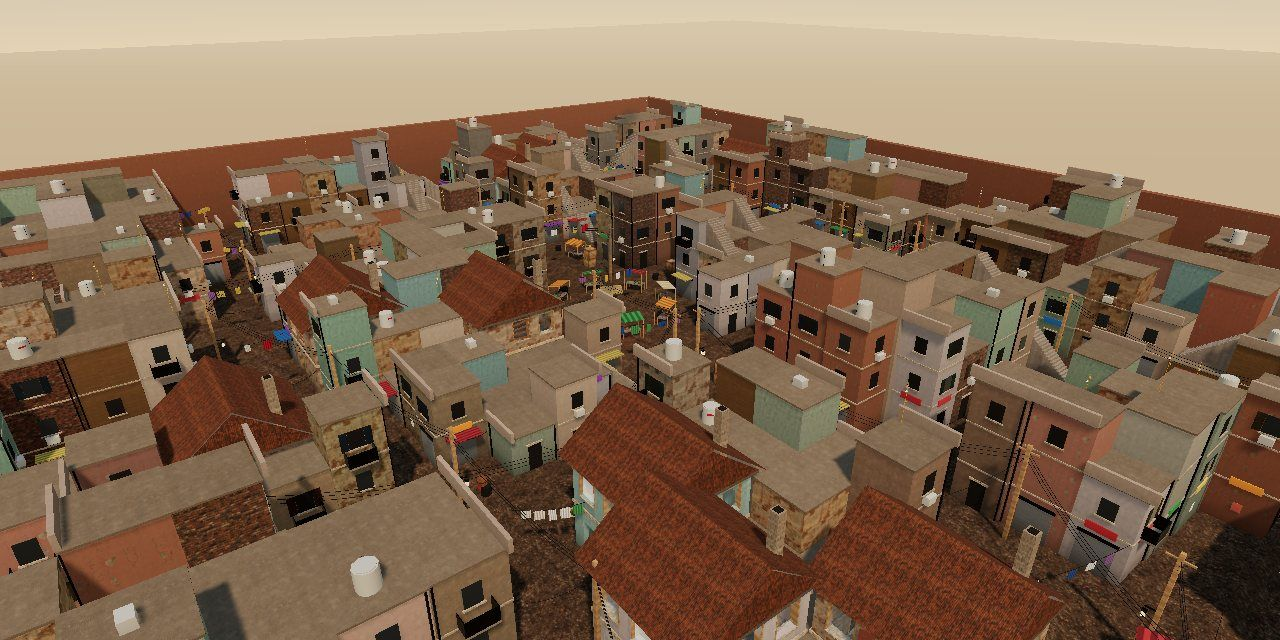
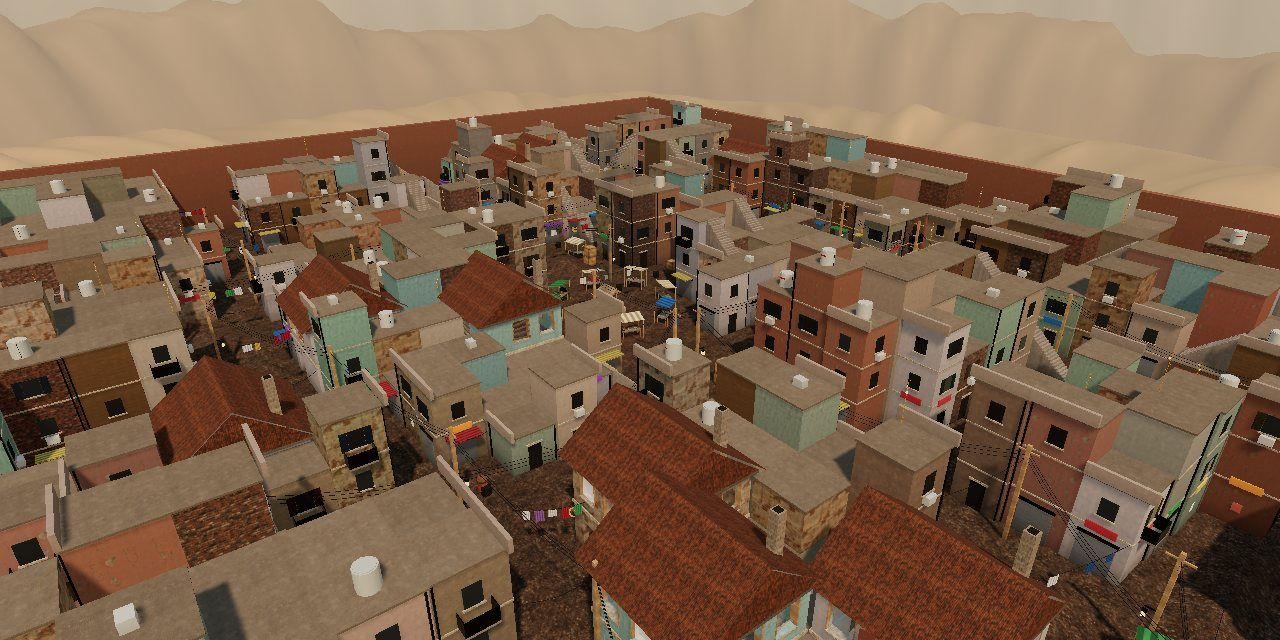
Beautiful layered backdrops, slope-limited hills, fall damage happy medium
- New panoramic backdrops: ground floor + foothills in the map's own colours,
  mid ranges (mesas on desert maps), far peaks with snow on Millbrook, all
  sun-shaded and fading into each map's haze; follows the map's edge
- Terrain slope limiter (~28 deg max) + crease softening; Bazaar gets more
  rise in its open spaces
- Fall damage: 4 m ~12, 7 m ~70, 10 m ~125, rooftop falls (11 m+) lethal
- Map postcards re-shot

Claude-Session: https://claude.ai/code/session_016tiaBKXEoAVGUpszsHYEEG

diff --git a/fps/game.js b/fps/game.js
@@ -1028,6 +1028,7 @@ function buildScenery(L, th, group) {
 const windU = { value: 0 };
 // ground, water, glows, fireflies, clouds
 function buildEnvironment(L, th, group, anim) {
+  buildBackdrop(L, th, group);
   const [x0, z0, x1, z1] = L.bounds;
   // detailed play-area ground with vertex-colour variation + soft darkening near walls
   const W = x1 - x0 + 8, D = z1 - z0 + 8, seg = TERR ? Math.min(220, Math.ceil(Math.max(x1 - x0, z1 - z0) / 0.8)) : L.big ? 128 : 64, gg = new THREE.PlaneGeometry(W, D, seg, seg); gg.rotateX(-Math.PI / 2); gg.translate((x0 + x1) / 2, 0, (z0 + z1) / 2);
@@ -1043,7 +1044,7 @@ function buildEnvironment(L, th, group, anim) {
   if (gm.map) { gm.map.anisotropy = Math.min(4, maxAniso); }
   const ground = new THREE.Mesh(gg, gm); ground.receiveShadow = true; group.add(ground);
   const far = new THREE.Mesh(new THREE.PlaneGeometry(900, 900).rotateX(-Math.PI / 2), MAT({ color: th.farGround || 0x4a5a3a }));
-  far.position.y = -0.05; group.add(far);
+  far.position.y = -0.05; if (!L.backdrop) group.add(far); // the layered backdrop brings its own floor
   // water
   if (L.water.length) {
     const wt = getTex('water').clone(); wt.needsUpdate = true; wt.wrapS = wt.wrapT = THREE.RepeatWrapping;
@@ -1106,9 +1107,44 @@ function updateEnvironment(dt) {
     else p.setXYZ(i, s[0] + Math.sin(t * s[4] + s[3]) * 1.2, s[1] + Math.sin(t * 1.3 * s[4] + s[3] * 2) * 0.4, s[2] + Math.cos(t * 0.8 * s[4] + s[3]) * 1.2); });
     p.needsUpdate = true; A.flies.geo.attributes.position.needsUpdate = true; }
 }
-function mountains(L, colors, snow) {
-  for (let i = 0; i < 26; i++) { const a = i / 26 * 6.28 + rand(-0.1, 0.1), r = rand(190, 260), h = rand(35, 85);
-    L.props.push({ k: 'mountain', x: Math.cos(a) * r, y: -2, z: Math.sin(a) * r, s: 1, ry: 0, r: rand(45, 80), h, c: pick(colors), snow: snow && h > 60 }); }
+function mountains(L, colors, snow) { L.backdrop = L.backdrop || (snow ? 'alpine' : 'desert'); } // replaced by layered ridgelines (buildBackdrop)
+// layered panoramic backdrop: near foothills in the map's own ground colour, mid ranges, far peaks dissolving into the sky haze
+const BACKDROPS = {
+  desert: [{ d0: 0, d1: 340, h: [0, 0], c: [0xb08a5a, 0xbf9a68], hz: 0.1, f: 1, floor: true }, { d0: 0, d1: 100, h: [3, 12], c: [0xb48d5c, 0xcca674], hz: 0.04, f: 7, near: true }, { d0: 80, d1: 200, h: [22, 56], c: [0x9a6c44, 0xb8885a], hz: 0.16, f: 5, mesa: 0.72 }, { d0: 220, d1: 320, h: [55, 110], c: [0x957a68, 0xb59e88], hz: 0.36, f: 4 }],
+  dusty: [{ d0: 0, d1: 340, h: [0, 0], c: [0xa88a64, 0xb89a74], hz: 0.1, f: 1, floor: true }, { d0: 0, d1: 100, h: [3, 11], c: [0xae9068, 0xc4a47e], hz: 0.08, f: 8, near: true }, { d0: 80, d1: 210, h: [18, 46], c: [0x96765a, 0xb09272], hz: 0.26, f: 6, mesa: 0.8 }, { d0: 230, d1: 320, h: [45, 95], c: [0x948472, 0xb0a08e], hz: 0.46, f: 4 }],
+  alpine: [{ d0: 0, d1: 340, h: [0, 0], c: [0x40602c, 0x50703a], hz: 0.1, f: 1, floor: true }, { d0: 0, d1: 110, h: [5, 18], c: [0x3a5a28, 0x587a3a], hz: 0.1, f: 8, near: true, forest: true }, { d0: 90, d1: 210, h: [28, 62], c: [0x46623e, 0x647c58], hz: 0.2, f: 6 }, { d0: 230, d1: 330, h: [80, 150], c: [0x546c8a, 0x7a90ae], hz: 0.3, f: 5, snow: 0.64 }],
+  urban: [{ d0: 0, d1: 340, h: [0, 0], c: [0x5c5e5a, 0x6a6c66], hz: 0.1, f: 1, floor: true }, { d0: 110, d1: 230, h: [16, 40], c: [0x62665c, 0x7a7e72], hz: 0.32, f: 6 }, { d0: 240, d1: 330, h: [40, 85], c: [0x6e7076, 0x8c8e94], hz: 0.5, f: 4 }],
+  coast: [{ d0: 0, d1: 340, h: [0, 0], c: [0x3e4a54, 0x4a5660], hz: 0.1, f: 1, floor: true }, { d0: 190, d1: 290, h: [20, 60], c: [0x56504e, 0x726860], hz: 0.4, f: 5 }, { d0: 270, d1: 335, h: [50, 110], c: [0x66646e, 0x86808a], hz: 0.56, f: 3 }],
+};
+function buildBackdrop(L, th, group) {
+  const preset = typeof L.backdrop === 'string' ? BACKDROPS[L.backdrop] : L.backdrop; if (!preset) return;
+  const [x0, z0, x1, z1] = L.bounds, cx = (x0 + x1) / 2, cz = (z0 + z1) / 2, hw = (x1 - x0) / 2 + 1, hd = (z1 - z0) / 2 + 1, haze = new THREE.Color(th.fog), R0 = seeded(hashStr(L.backdropSeed || String(hw * 7 + hd)));
+  const edge = a => Math.min(hw / Math.max(1e-3, Math.abs(Math.cos(a))), hd / Math.max(1e-3, Math.abs(Math.sin(a)))); // distance to the map's rectangular edge
+  const sun = new V3(...th.sunDir).normalize();
+  preset.forEach((Ly, li) => {
+    const sa = 360, sr = Ly.near ? 12 : 8, ph = [...Array(6)].map(() => R0() * 6.28), am = [1, 0.55, 0.3, 0.18, 0.1, 0.06];
+    const prof = a => { let n = 0, t = 0; for (let k = 0; k < 6; k++) { n += am[k] * Math.sin(a * Math.round(Ly.f * (k + 1) * (1 + k * 0.37)) + ph[k]); t += am[k]; } /* whole-number frequencies: no seam where the ring wraps */ n = 0.5 + 0.5 * n / t; return Math.pow(n, 1.6); };
+    const pos = [], base = [], hzv = [], idx = [], lo = new THREE.Color(Ly.c[0]), hi = new THREE.Color(Ly.c[1]), snow = new THREE.Color(0xf2f5fa);
+    for (let ia = 0; ia <= sa; ia++) { const a = ia / sa * Math.PI * 2, H = lerp(Ly.h[0], Ly.h[1], prof(a)), e0 = edge(a), dirx = Math.cos(a), dirz = Math.sin(a);
+      for (let ir = 0; ir <= sr; ir++) { const t = ir / sr, r = e0 + lerp(Ly.near ? -1 : Ly.d0, Ly.d1, t) + (Ly.near ? 0 : Math.sin(a * 23 + li) * 2);
+        let y = H * Math.pow(Math.sin(Math.PI * Math.min(1, t * 1.12)), 0.85) * (0.92 + 0.08 * Math.sin(a * 61 + t * 9 + li * 3));
+        if (Ly.mesa) y = Math.min(y, H * Ly.mesa) / Ly.mesa * (Ly.mesa + (1 - Ly.mesa) * 0.25); // flat-topped mesas
+        if (Ly.near) y = y * smooth(0.05, 0.4, t) + 0.3; // rises from the map's own ground right at the boundary
+        if (Ly.floor) y = 1.96; // ends up just under ground level
+        pos.push(cx + dirx * r, y - (Ly.near ? 0 : 2), cz + dirz * r);
+        const k = clamp(y / Ly.h[1], 0, 1), c = lo.clone().lerp(hi, k * 0.85 + 0.15 * Math.sin(a * 37 + ir) ** 2);
+        if (Ly.forest) c.multiplyScalar(0.84 + 0.22 * (0.5 + 0.5 * Math.sin(a * 140 + ir * 1.7)));
+        if (Ly.snow && y > Ly.h[1] * Ly.snow) c.lerp(snow, smooth(Ly.h[1] * Ly.snow, Ly.h[1] * (Ly.snow + 0.1), y));
+        if (Ly.mesa || L.backdrop === 'desert' || L.backdrop === 'dusty') c.multiplyScalar(0.93 + 0.07 * Math.sin(y * 0.9 + a * 3)); // rock strata
+        base.push(c); hzv.push(Ly.floor ? lerp(Ly.hz, 0.5, Math.pow(t, 1.3)) : clamp(Ly.hz + t * 0.1, 0, 0.92)); } }
+    for (let ia = 0; ia < sa; ia++) for (let ir = 0; ir < sr; ir++) { const a = ia * (sr + 1) + ir, b = a + sr + 1; idx.push(a, b, a + 1, a + 1, b, b + 1); } // counter-clockwise from above: faces up/inward
+    const g = new THREE.BufferGeometry(); g.setAttribute('position', new THREE.Float32BufferAttribute(pos, 3)); g.setIndex(idx); g.computeVertexNormals();
+    const N = g.attributes.normal, col = new Float32Array(base.length * 3), nv = new V3();
+    for (let i = 0; i < base.length; i++) { nv.fromBufferAttribute(N, i); const sh = 0.56 + 0.62 * Math.max(0, nv.dot(sun)) + 0.1 * nv.y; // soft baked sun: no black backlit faces
+      const c = base[i].clone().multiplyScalar(sh).lerp(haze, hzv[i]); col[i * 3] = c.r; col[i * 3 + 1] = c.g; col[i * 3 + 2] = c.b; }
+    g.setAttribute('color', new THREE.BufferAttribute(col, 3));
+    const m = new THREE.Mesh(g, new THREE.MeshBasicMaterial({ vertexColors: true, fog: false, toneMapped: false })); m.userData.noAO = true; m.frustumCulled = false; group.add(m); // colours are authored as final (ACES would wash them out)
+  });
 }
 
 // ---------------------------------------------------------------- MAP 1: BOGWATER SWAMP
@@ -1392,6 +1428,7 @@ function cityBlock(L, x0, z0, x1, z1, R) {
   if (alleyX && alleyZ) { crates(L, mx, mz + 0.6); L.prop('keg', mx + 0.8, 0, mz - 0.8); }
 }
 function buildCrossroads(L) {
+  L.backdrop = 'urban';
   L.hills = 2.6; L.hillScale = 28; L.hillRamp = 9;
   const R = seeded(1337);
   L.bounds = [-96, -80, 96, 80]; L.ground = 'asphalt'; L.groundScale = 6; L.groundTint = 0xd8d6d0; L.grass = 0; L.big = true; L.padStyle = 'rune'; L.smoke = L.smoke || []; L.noLamps = true;
@@ -1483,6 +1520,7 @@ function warehouse(L, x0, z0, w, d, o = {}) { // big shed: corrugated walls, rol
 }
 // ---------------------------------------------------------------- MAP: FREIGHT YARD (CoD-style container port, medium)
 function buildFreight(L) {
+  L.backdrop = 'coast';
   L.postcard = { sx: -1, sz: 1, hk: 0.14, dk: 0.85 };
   L.hills = 2.1; L.hillScale = 26; L.hillRamp = 9;
   const R = seeded(77);
@@ -1601,7 +1639,8 @@ function facade(L, R, x0, z0, x1, z1, h, side) {
   if (R() < 0.5) { const c = R() < 0.5 ? a0 + 0.15 : a1 - 0.15; B(c - 0.05, c + 0.05, 0, h, 0, 0.1, 'metal'); } // drainpipe
 }
 function buildBazaar(L) {
-  L.hills = 2.7; L.hillScale = 24; L.hillFlat = 1.0; L.hillRamp = 7.5;
+  L.backdrop = 'dusty';
+  L.hills = 4.6; L.hillScale = 22; L.hillFlat = 0.9; L.hillRamp = 6;
   const R = seeded(9001);
   L.bounds = [-70, -54, 70, 54]; L.ground = 'dirtroad'; L.groundScale = 4; L.groundTint = 0xf0e6d8; L.grass = 0; L.big = true; L.noLamps = true; L.smoke = [];
   L.box(-74, -1, -58, 74, 0, 58, 'floor').noRender = true;
@@ -1869,6 +1908,12 @@ function buildTerrain(L, name) {
     const f = vn(x / sc, z / sc) * 0.62 + vn(x / (sc * 0.45) + 17, z / (sc * 0.45) + 9) * 0.28 + vn(x / (sc * 0.18) + 41, z / (sc * 0.18) + 3) * 0.1;
     const edge = smooth(0, 4, Math.min(x - x0, x1 - x, z - z0, z1 - z)), v = amp * Math.pow(f, 1.5) * 1.6 * smooth(fl, rp, d[k]) * edge * (L.hillMask ? L.hillMask(x, z) : 1);
     h[k] = v; if (v > mx) mx = v; }
+  { const st = Math.tan((L.hillMaxSlope || 28) * Math.PI / 180) * cs, sd = st * Math.SQRT2; // slope limiter: nothing steeper than ~28 deg (walkable, readable hills)
+    for (let it = 0; it < 3; it++) {
+      for (let j = 0; j < nz; j++) for (let i = 0; i < nx; i++) { const k = j * nx + i; let v = h[k]; if (i > 0) v = Math.min(v, h[k - 1] + st); if (j > 0) { v = Math.min(v, h[k - nx] + st); if (i > 0) v = Math.min(v, h[k - nx - 1] + sd); if (i < nx - 1) v = Math.min(v, h[k - nx + 1] + sd); } h[k] = v; }
+      for (let j = nz - 1; j >= 0; j--) for (let i = nx - 1; i >= 0; i--) { const k = j * nx + i; let v = h[k]; if (i < nx - 1) v = Math.min(v, h[k + 1] + st); if (j < nz - 1) { v = Math.min(v, h[k + nx] + st); if (i < nx - 1) v = Math.min(v, h[k + nx + 1] + sd); if (i > 0) v = Math.min(v, h[k + nx - 1] + sd); } h[k] = v; } }
+    const g = h.slice(); for (let j = 1; j < nz - 1; j++) for (let i = 1; i < nx - 1; i++) { const k = j * nx + i; if (h[k] > 0.01) g[k] = (h[k] * 4 + h[k - 1] + h[k + 1] + h[k - nx] + h[k + nx]) / 8; } h.set(g); // soften creases
+    mx = 0; for (let k = 0; k < N; k++) if (h[k] > mx) mx = h[k]; }
   TERR = { x0, z0, cs, nx, nz, h, max: mx, box: { x0: -1e9, y0: -1e9, z0: -1e9, x1: 1e9, y1: 0, z1: 1e9, m: L.ground || 'dirt', terrain: true } };
   // set everything that stands on the ground onto the slope
   const lift = b => { const y = TH((b.x0 + b.x1) / 2, (b.z0 + b.z1) / 2); if (y > 0.01) { b.y0 += y; b.y1 += y; } };
@@ -4224,8 +4269,8 @@ function updatePlayer(dt) {
   }
   const vyBefore = P.vel.y, wasGround = P.onGround;
   moveBody(P, dt);
-  if (!wasGround && P.onGround && vyBefore < -11.5 && !P.mantle && game.time > (P.protT || 0)) { // fall damage (≈3.2 m+; 7 m ≈ a third of your health, ~15 m deadly), loud and obvious
-    const dmg = Math.round(Math.pow(-vyBefore - 11.5, 1.3) * 3.4 * hpMul()); if (dmg > 0) { damagePlayer(dmg, null, null); sfx.play('fallhurt'); game.shake = Math.min(1.2, game.shake + 0.6); showHint('FALL DAMAGE −' + dmg, '#ff6b5a'); noise(P.pos, 14, PLAYER_T); } }
+  if (!wasGround && P.onGround && vyBefore < -11.5 && !P.mantle && game.time > (P.protT || 0)) { // fall damage (≈3.2 m+; 7 m ≈ half your health, ~11 m+ (a Bazaar rooftop) deadly), loud and obvious
+    const dmg = Math.round(Math.pow(-vyBefore - 11.5, 1.3) * 4.9 * hpMul()); if (dmg > 0) { damagePlayer(dmg, null, null); sfx.play('fallhurt'); game.shake = Math.min(1.2, game.shake + 0.6); showHint('FALL DAMAGE −' + dmg, '#ff6b5a'); noise(P.pos, 14, PLAYER_T); } }
   if (!wasGround && P.onGround && vyBefore < -5) { P.landKick = Math.min(-vyBefore * 0.008, 0.12); sfx.play('land', { vol: clamp(-vyBefore / 14, 0.3, 1) }); sfx.step(surfaceAt(P.pos.x, P.pos.y, P.pos.z), { vol: clamp(-vyBefore / 12, 0.3, 1), gait: 'sprint', near: true }); if (-vyBefore > 6) noise(P.pos, 12, PLAYER_T); }
   if (P.pos.y < -15) { const s = world.L.spawn; P.pos.set(s.x, s.y + 0.1, s.z); P.vel.set(0, 0, 0); }
   // footsteps

diff --git a/fps/index.html b/fps/index.html
@@ -490,7 +490,7 @@ img.thumb.tall{height:110px;object-fit:cover}
 
 <script src="three.min.js"></script>
 <script src="peerjs.min.js?v=1.5.4"></script>
-<script src="game.js?v=202611210500"></script>
+<script src="game.js?v=202611210900"></script>
 <script type="module" src="lib/assets.js?v=202611182330"></script>
 <script type="module" src="lib/post.js?v=202611182330"></script>
 </body>
